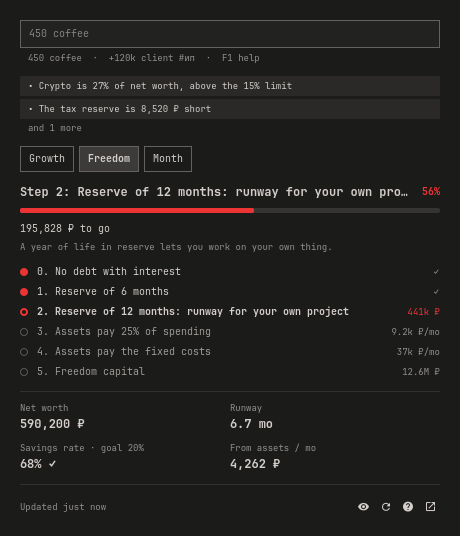
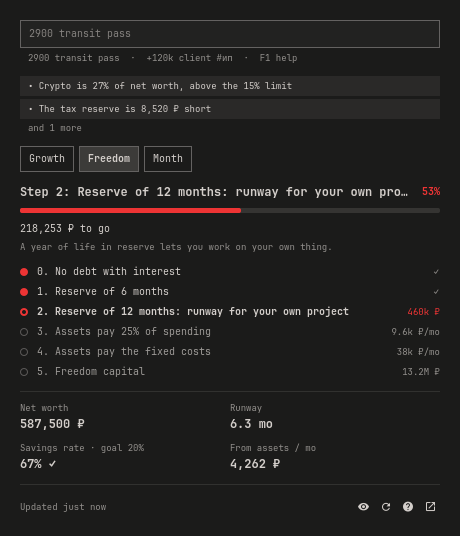
Examples: a transit pass instead of coffee

diff --git a/tests/model.test.js b/tests/model.test.js
@@ -6,17 +6,17 @@ const ctx = {
   currencies: ["EUR", "RUB", "USD", "USDT"],
   accounts: [
     {name: "Assets:Liquid:Cash", short: "нал"}, {name: "Assets:Liquid:Tbank", short: "карта"},
-    {name: "Assets:Business:Checking", short: "ип"}, {name: "Expenses:Life:EatingOut", short: ""},
+    {name: "Assets:Business:Checking", short: "ип"}, {name: "Expenses:Life:EatingOut", short: ""}, {name: "Expenses:Fixed:Transport", short: ""},
     {name: "Expenses:Growth:Tools", short: ""}, {name: "Expenses:Business:Tools", short: ""},
     {name: "Expenses:Uncategorized", short: ""}, {name: "Income:Business:Revenue", short: ""}, {name: "Income:Uncategorized", short: ""}
   ],
-  history: {"кофе": {account: "Expenses:Life:EatingOut", source: "Assets:Liquid:Tbank"}}
+  history: {"проездной": {account: "Expenses:Fixed:Transport", source: "Assets:Liquid:Tbank"}}
 }
 const today = new Date(2026, 10, 22)
 const p = line => M.parseEntry(line, today, ctx)
 
 // History decides the category and where the money came from.
-assert.deepStrictEqual([p("450 кофе").account, p("450 кофе").source, p("450 кофе").flag], ["Expenses:Life:EatingOut", "Assets:Liquid:Tbank", "*"])
+assert.deepStrictEqual([p("2900 проездной").account, p("2900 проездной").source, p("2900 проездной").flag], ["Expenses:Fixed:Transport", "Assets:Liquid:Tbank", "*"])
 // Unknown goes to the inbox with "!".
 assert.deepStrictEqual([p("1,5к что-то").account, p("1,5к что-то").amount, p("1,5к что-то").flag], ["Expenses:Uncategorized", 1500, "!"])
 assert.strictEqual(p("100 такси вчера").date, "2026-11-21")
@@ -28,22 +28,22 @@ assert.strictEqual(p("2000 хостинг >Tools").ok, false)  // two Tools with
 // Currency by code or sign.
 assert.strictEqual(p("12 usd хостинг").currency, "USD")
 assert.strictEqual(p("$12 хостинг").currency, "USD")
-assert.strictEqual(p("12€ кофе").currency, "EUR")
-assert.strictEqual(p("450 кофе @нал").source, "Assets:Liquid:Cash")
+assert.strictEqual(p("12€ проездной").currency, "EUR")
+assert.strictEqual(p("2900 проездной @нал").source, "Assets:Liquid:Cash")
 // Errors.
 assert.strictEqual(p("").error, "empty")
-assert.strictEqual(p("кофе 450").error, "amount-first")
+assert.strictEqual(p("проездной 2900").error, "amount-first")
 assert.strictEqual(p("450").error, "name-missing")
-assert.strictEqual(p("12x кофе").error, "bad-amount")
-assert.strictEqual(p("450 кофе @нетакого").error, "unknown-account")
+assert.strictEqual(p("12x проездной").error, "bad-amount")
+assert.strictEqual(p("2900 проездной @нетакого").error, "unknown-account")
 // Quotes can't break out of the Beancount string.
-assert.strictEqual(p('450 "кофе"').narration, "'кофе'")
+assert.strictEqual(p('450 "проездной"').narration, "'проездной'")
 
 // Week commands.
 assert.deepStrictEqual(M.parseCommand("неделя 10 предложений клиентам"), {ok: true, kind: "week", args: ["10", "предложений", "клиентам"], target: 10, text: "предложений клиентам"})
 assert.deepStrictEqual(M.parseCommand("week +1"), {ok: true, kind: "week", args: ["+1"]})
 assert.strictEqual(M.parseCommand("неделя много").ok, false)
-assert.strictEqual(M.parseCommand("450 кофе"), null)
+assert.strictEqual(M.parseCommand("2900 проездной"), null)
 
 // Status is bounded and typed.
 const raw = {schema: 1, ladder: [{key: "no-debt", done: true, progress: 1}, {key: "reserve-min", done: false, progress: 0.814, months: 6}],

diff --git a/tests/contract.test.js b/tests/contract.test.js
@@ -14,14 +14,14 @@ const fin = (...args) => {
 
 const status = M.readStatus(fin("status", "--json").out)
 assert.strictEqual(status.ok, true, "status")
-assert.strictEqual(status.liquid, 244700)
+assert.strictEqual(status.liquid, 242000)
 assert.strictEqual(status.tax.reserved, 3000)
 assert.strictEqual(status.ladder.length, 6)
 assert.ok(status.warnings.some(w => w.key === "tax-gap"))
 assert.ok(status.entry.accounts.some(a => a.short === "карта"))
 
-const lines = ["450 кофе", "1,5к что-то новое вчера", "+12к клиент #ип", "2000 хостинг #ип >Tools", "12 usd хостинг", "$12 хостинг",
-  "450 кофе @нал", "450 кофе @карта", "кофе 450", "450", "12x кофе", "450 кофе @нетакого", "2000 хостинг >Tools", '450 "кофе"', "100 такси позавчера"]
+const lines = ["2900 проездной", "1,5к что-то новое вчера", "+12к клиент #ип", "2000 хостинг #ип >Tools", "12 usd хостинг", "$12 хостинг",
+  "2900 проездной @нал", "2900 проездной @карта", "проездной 2900", "2900", "12x проездной", "2900 проездной @нетакого", "2000 хостинг >Tools", '450 "проездной"', "100 такси позавчера"]
 const py = `
 import json, sys, datetime as dt
 sys.path.insert(0, ${JSON.stringify(path.join(repo, "cli"))})
@@ -44,11 +44,11 @@ lines.forEach((line, i) => {
 })
 
 // Write, undo and the week through the real command.
-let r = JSON.parse(fin("add", "--json", "--", "450 кофе").out)
+let r = JSON.parse(fin("add", "--json", "--", "2900 проездной").out)
 assert.strictEqual(r.ok, true)
-assert.strictEqual(M.readStatus(fin("status", "--json").out).liquid, 244250)
-assert.strictEqual(JSON.parse(fin("undo", "--json", r.entry.id).out).narration, "кофе")
-assert.strictEqual(M.readStatus(fin("status", "--json").out).liquid, 244700)
+assert.strictEqual(M.readStatus(fin("status", "--json").out).liquid, 239100)
+assert.strictEqual(JSON.parse(fin("undo", "--json", r.entry.id).out).narration, "проездной")
+assert.strictEqual(M.readStatus(fin("status", "--json").out).liquid, 242000)
 r = fin("add", "--json", "--", "$20 хостинг #ип")          // a rouble account refuses dollars
 assert.strictEqual(r.code, 1)
 assert.strictEqual(JSON.parse(r.out).error, "ledger")

diff --git a/tests/render.js b/tests/render.js
@@ -22,8 +22,8 @@ const cases = [
   {name: "freedom", env: {VIEW: "freedom"}},
   {name: "month", env: {VIEW: "month"}},
   {name: "business", env: {VIEW: "month", SCOPE: "business"}},
-  {name: "entry", env: {VIEW: "freedom", INPUT: "450 кофе"}},
-  {name: "markup", env: {VIEW: "freedom", INPUT: "450 <img src=x> кофе"}},
+  {name: "entry", env: {VIEW: "freedom", INPUT: "2900 проездной"}},
+  {name: "markup", env: {VIEW: "freedom", INPUT: "2900 <img src=x> проездной"}},
   {name: "missing", env: {VIEW: "freedom"}, settings: {command: "no-such-fin-command"}},
   {name: "help", env: {VIEW: "help"}},
   {name: "empty", env: {VIEW: "freedom", FIN_ROOT: empty}},

diff --git a/README.md b/README.md
@@ -46,12 +46,12 @@ AMOUNT [CURRENCY] description [@from] [>category] [#tag] [yesterday]
 
 | Line | Means |
 | --- | --- |
-| `450 coffee` | spending; category and account as last time for “coffee” |
+| `2900 transit pass` | spending; category and account as last time for “transit pass” |
 | `1,5k something new` | unknown: goes to `Expenses:Uncategorized` with a `!` flag, to sort later |
 | `+120k client #ип` | income of the business (the tag is set in the ledger) |
 | `2000 hosting #ип >Tools` | `>` picks a category; with the business tag, business accounts win |
 | `12 usd hosting`, `$12 hosting` | another currency |
-| `450 coffee @cash yesterday` | `@` picks the account by its `short:` alias or name |
+| `2900 transit pass @cash yesterday` | `@` picks the account by its `short:` alias or name |
 | `week 10 client offers` | sets the action of the week; ↑ and ↓ count it |
 | `goal 500000`, `goal 7000 usd`, `goal off` | the monthly income goal |
 
